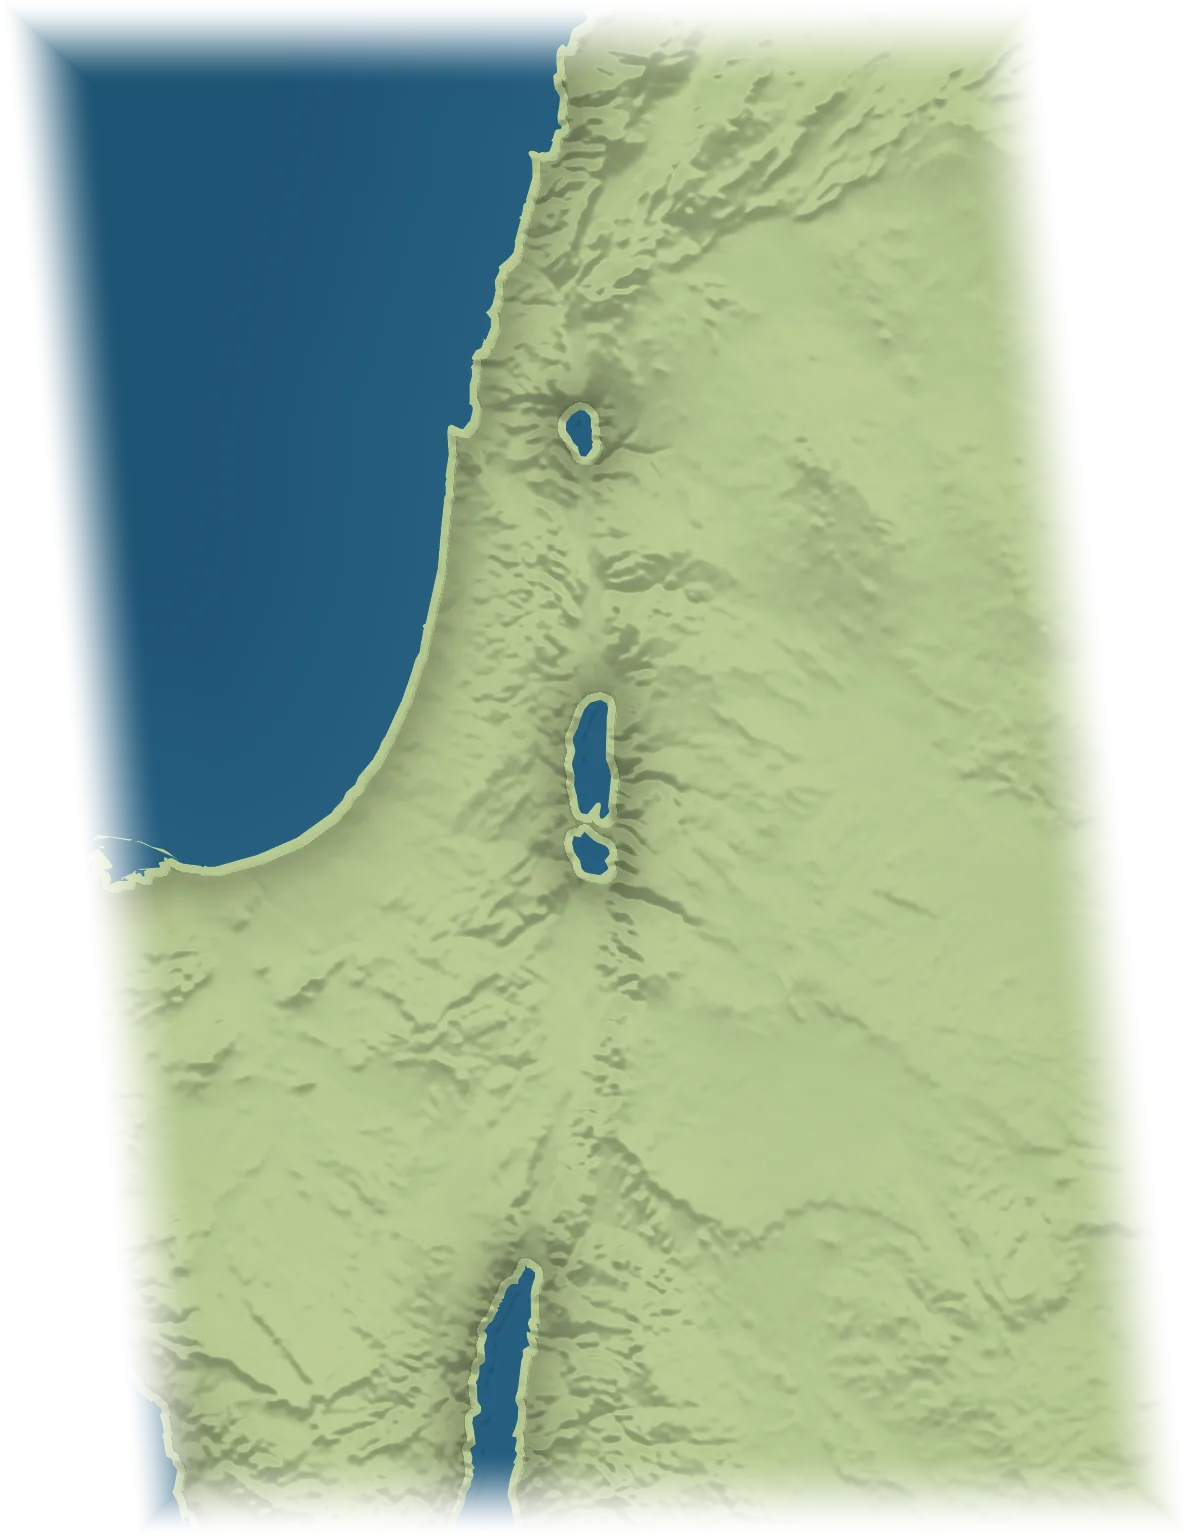
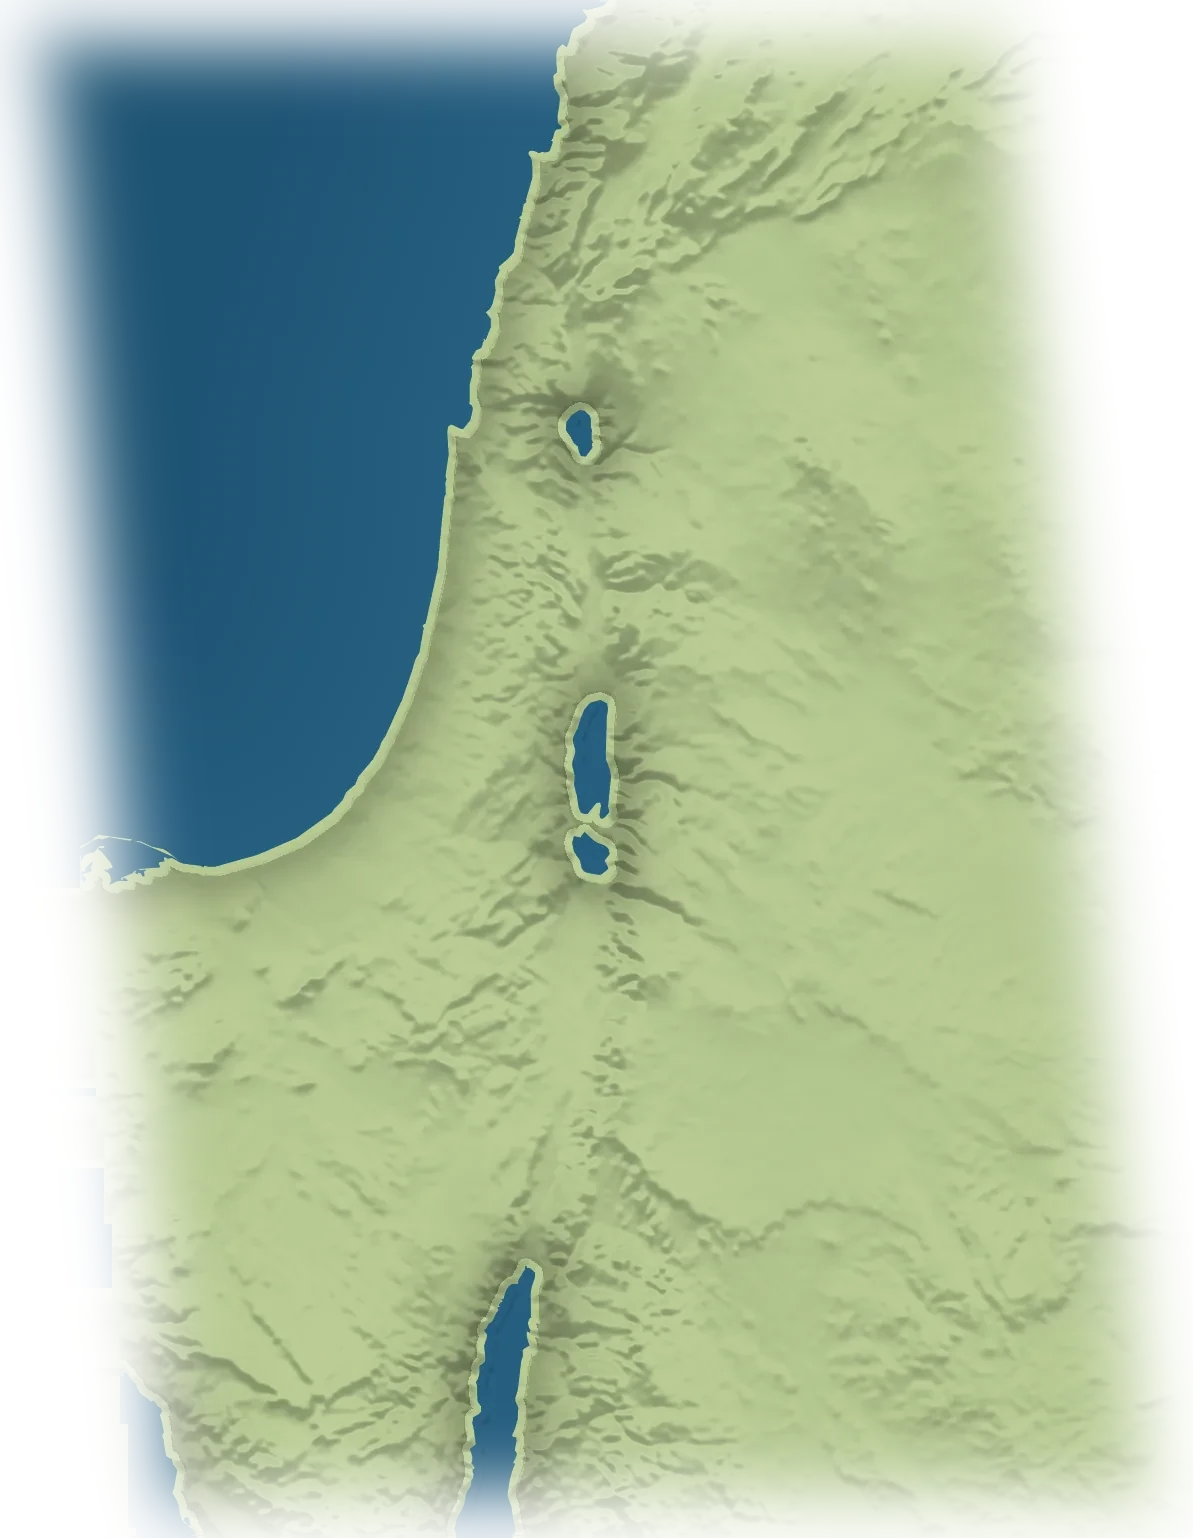
Tier 1 inset: smooth feathered corner; hold Tier 2 M1 picture back (OpenTopography credit question open)
Claude-Session: https://claude.ai/code/session_01XnSa8CSopsy8GydYXhqea4

diff --git a/mapinset.js b/mapinset.js
@@ -25,14 +25,15 @@ function draw(svg,c){
     im.setAttribute('href',s.file);im.setAttribute('x',x);im.setAttribute('y',y);im.setAttribute('width',w);im.setAttribute('height',h);im.setAttribute('preserveAspectRatio','none');im.setAttribute('data-inset',s.id);if(op<1)im.setAttribute('opacity',op.toFixed(3));
     im.addEventListener('error',function(){BAD[s.id]=1;im.remove();});
     svg.appendChild(im);n++;
-    if(MIX>0){var m=document.createElementNS('http://www.w3.org/2000/svg','image');   // M1 Satellite copy on top, faded in with the base map
+    if(MIX>0&&!HOLD_M1[s.id]){var m=document.createElementNS('http://www.w3.org/2000/svg','image');   // M1 Satellite copy on top, faded in with the base map
       ['x','y','width','height'].forEach(function(k){m.setAttribute(k,im.getAttribute(k));});m.setAttribute('href',s.file.replace('images/inset/','images/m1/inset/'));m.setAttribute('preserveAspectRatio','none');m.setAttribute('opacity',(op*MIX).toFixed(3));svg.appendChild(m);}
   });
   return n;
 }
 /* M1 Satellite base map (3 Nov): the aged picture shows before 1898; from 1898 the M1 picture fades in over about 0.7 s (DECIDED 1 Nov). Used by movements.js. */
+var HOLD_M1={'tier2-near-east':1};   // Tier 2 stays aged until the OpenTopography credit question is answered (tools/inset-sources.md)
 var MIX=0,TARGET=0,RAF=0,LAST=0,READY=0,LOADING=false,REDRAW=null,FADE_S=0.7,M1_FROM=1898,M1_BASE='images/m1/map-globe.webp';
-function preload(){if(LOADING)return;LOADING=true;var n=0,files=[M1_BASE].concat((M&&M.insets||[]).map(function(s){return s.file.replace('images/inset/','images/m1/inset/');}));
+function preload(){if(LOADING)return;LOADING=true;var n=0,files=[M1_BASE].concat((M&&M.insets||[]).filter(function(s){return !HOLD_M1[s.id];}).map(function(s){return s.file.replace('images/inset/','images/m1/inset/');}));
   files.forEach(function(f){var i=new Image();i.onload=i.onerror=function(){if(++n===files.length){READY=1;kick();}};i.src=f;});}
 function kick(){if(RAF||!READY)return;LAST=performance.now();RAF=requestAnimationFrame(step);}
 function step(t){RAF=0;var dt=Math.max(0,(t-LAST)/1000);LAST=t;var dir=Math.sign(TARGET-MIX);if(!dir)return;MIX=Math.max(0,Math.min(1,MIX+dir*dt/FADE_S));if((dir>0&&MIX>=TARGET)||(dir<0&&MIX<=TARGET))MIX=TARGET;if(REDRAW)REDRAW();if(MIX!==TARGET)RAF=requestAnimationFrame(step);}
